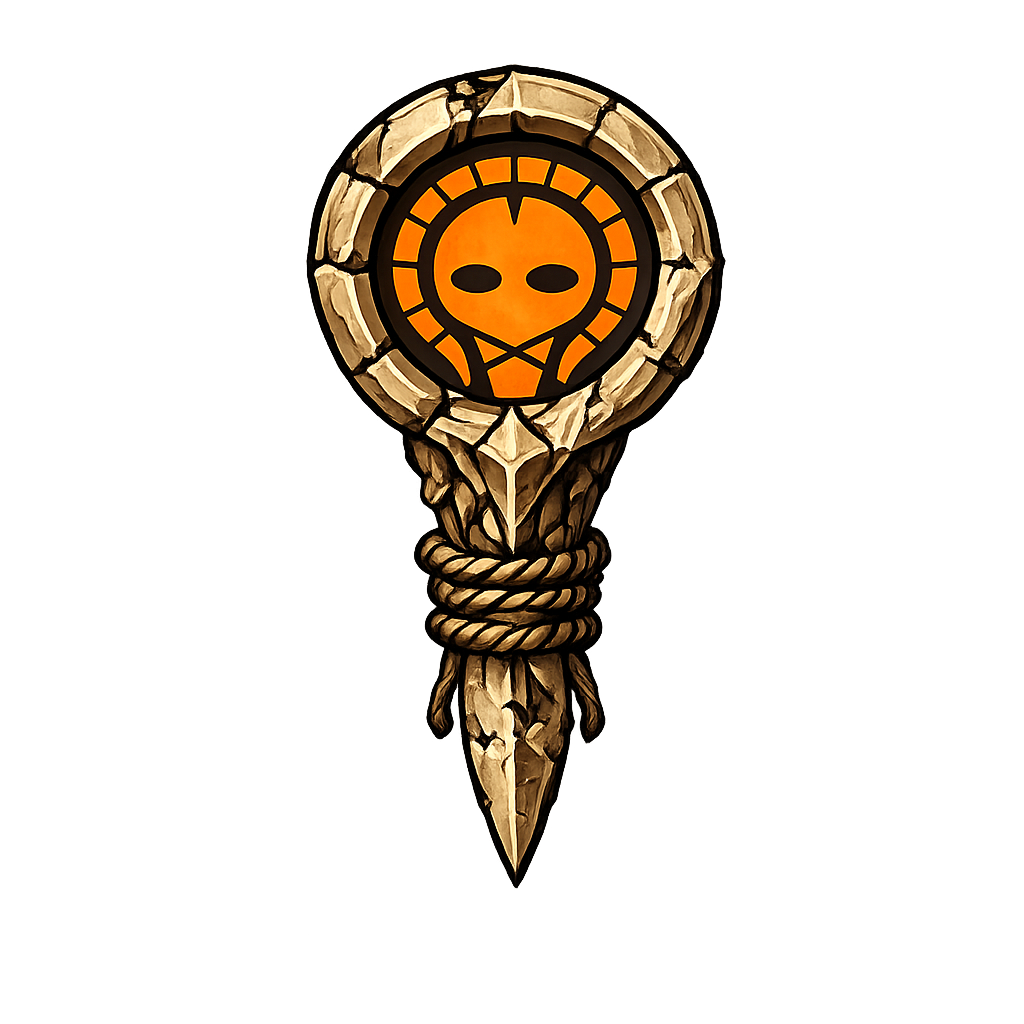
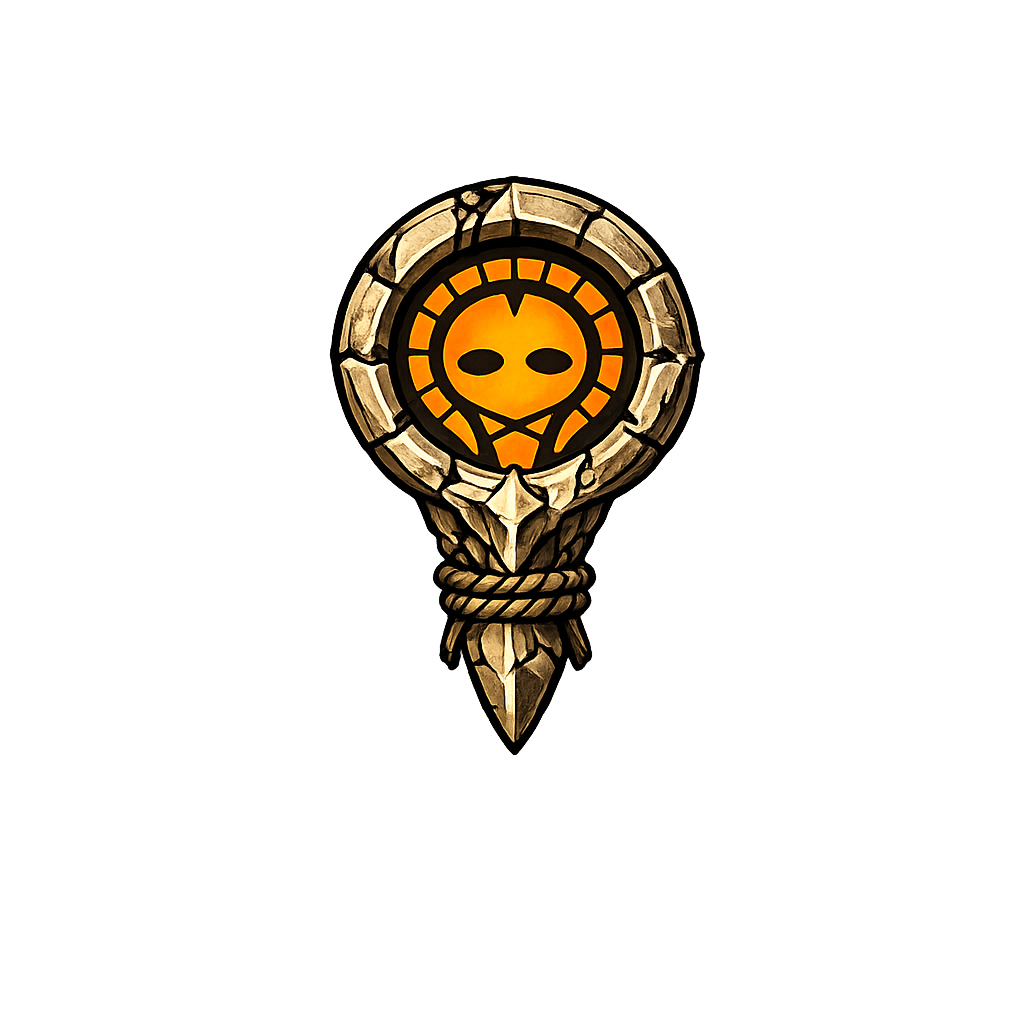
Add new beauty

Changed region(s): [[0.2812, 0.0625, 0.7188, 0.875]]

diff --git a/app/globals.css b/app/globals.css
@@ -24,3 +24,28 @@ body {
   color: var(--foreground);
   font-family: Arial, Helvetica, sans-serif;
 }
+
+.leaflet-popup-content-wrapper {
+  background: #e6d2b5 !important;
+  color: #2b1d0e !important;
+  border: 2px solid #6d4c2f !important;
+  border-radius: 14px !important;
+  box-shadow:
+    0 0 20px rgba(0, 0, 0, 0.5),
+    inset 0 0 30px rgba(255, 255, 255, 0.15) !important;
+}
+
+.leaflet-popup-tip {
+  background: #e6d2b5 !important;
+}
+
+.leaflet-popup-close-button {
+  color: #2b1d0e !important;
+}
+
+.leaflet-popup-content {
+  font-family: var(--font-cormorant), serif !important;
+  font-size: 18px !important;
+  line-height: 1.35 !important;
+  color: #2b1d0e !important;
+}

diff --git a/app/components/MapView.tsx b/app/components/MapView.tsx
@@ -21,11 +21,11 @@ import Comments from './Comments';
 const icon = L.icon({
   iconUrl: '/icon.png',
 
-  iconSize: [48, 48],
+  iconSize: [96, 96],
 
-  iconAnchor: [24, 48],
+  iconAnchor: [48, 72],
 
-  popupAnchor: [0, -48],
+  popupAnchor: [0, -96],
 });
 
 type MarkerType = {
@@ -76,8 +76,8 @@ export default function MapView() {
     )
     .slice(0, 5);
 
-  const IMAGE_WIDTH = 1920;
-  const IMAGE_HEIGHT = 1080;
+  const IMAGE_WIDTH = 3840;
+  const IMAGE_HEIGHT = 2160;
 
   const bounds: [[number, number], [number, number]] = [
     [0, 0],
@@ -231,14 +231,15 @@ export default function MapView() {
         bounds={bounds}
         maxBounds={bounds}
         maxBoundsViscosity={1.0}
-        minZoom={0}
+        minZoom={-1}
         attributionControl={false}
         doubleClickZoom={false}
         style={{ height: '100%', width: '100%' }}
         >
         <MapController onReady={(map) => (mapRef.current = map)} />
 
-        <ImageOverlay url="/map.png" bounds={bounds} />
+
+        <ImageOverlay url="/map-4.png" bounds={bounds} />
 
         <ClickHandler onAdd={addMarker} />
 
@@ -257,6 +258,7 @@ export default function MapView() {
             }}
             >
             <Popup
+                offset={[0, 60]}
                 minWidth={320}
                 maxWidth={420}
                 autoPan={true}

diff --git a/app/layout.tsx b/app/layout.tsx
@@ -1,10 +1,16 @@
 import type { Metadata } from "next";
-import { Geist, Geist_Mono } from "next/font/google";
 import "./globals.css";
+import { Geist, Geist_Mono, Cormorant_Garamond } from "next/font/google";
 
 const geistSans = Geist({
   variable: "--font-geist-sans",
   subsets: ["latin"],
+});
+
+const cormorant = Cormorant_Garamond({
+  subsets: ["latin", "cyrillic"],
+  variable: "--font-cormorant",
+  weight: ["400", "500", "700"],
 });
 
 const geistMono = Geist_Mono({
@@ -25,7 +31,12 @@ export default function RootLayout({
   return (
     <html
       lang="en"
-      className={`${geistSans.variable} ${geistMono.variable} h-full antialiased`}
+      className={`
+        ${geistSans.variable}
+        ${geistMono.variable}
+        ${cormorant.variable}
+        h-full antialiased
+      `}
     >
       <body className="min-h-full flex flex-col">{children}</body>
     </html>